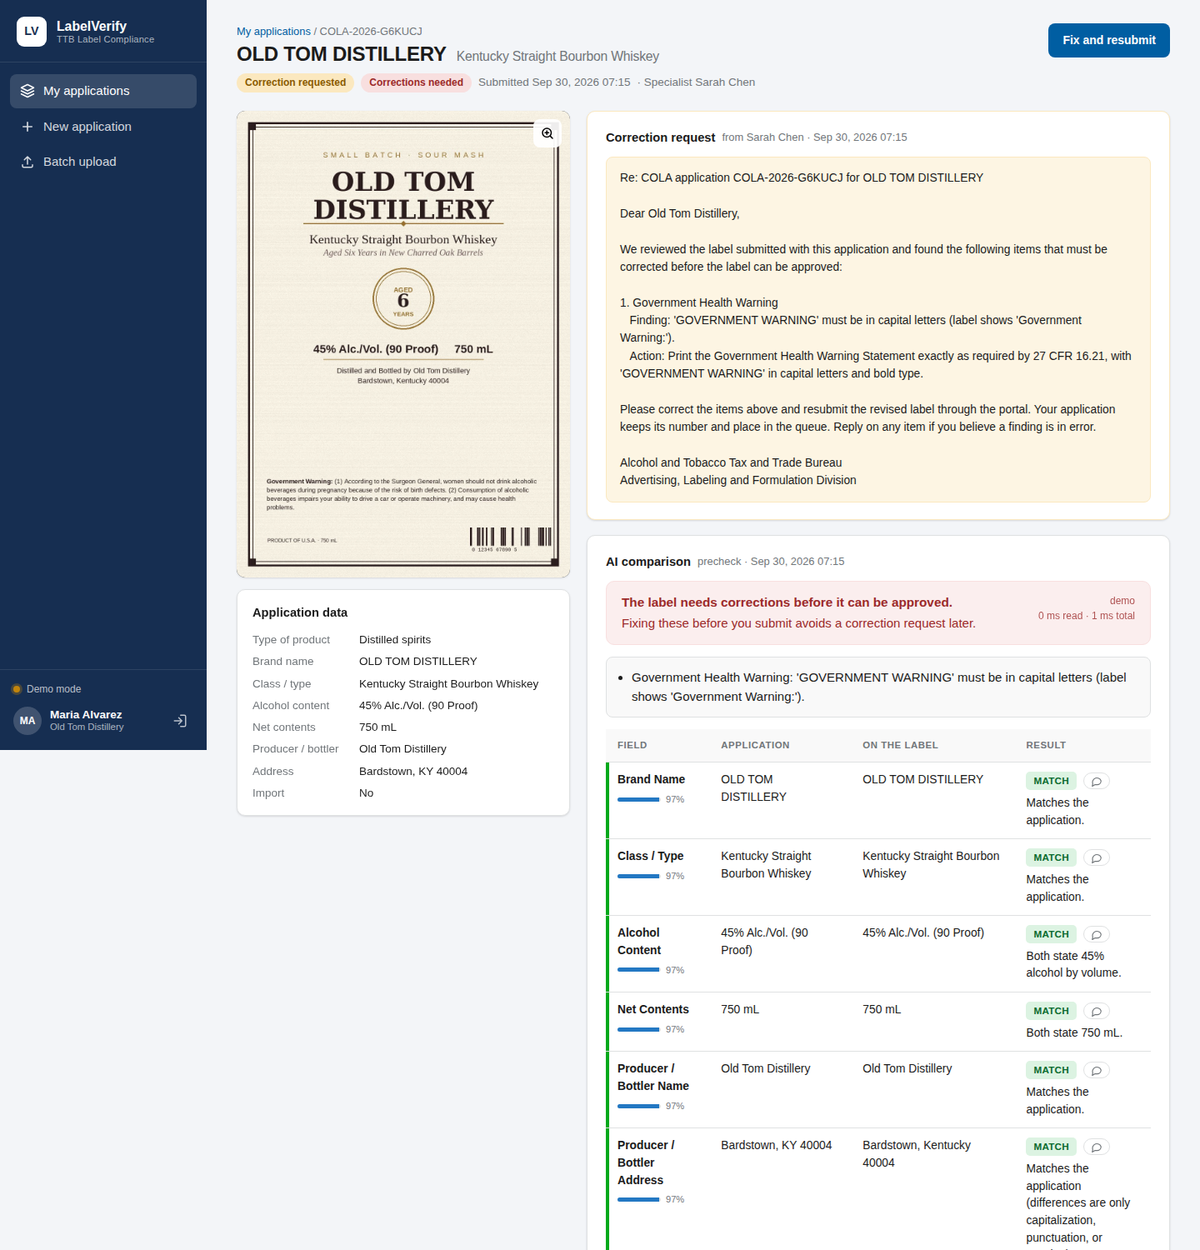
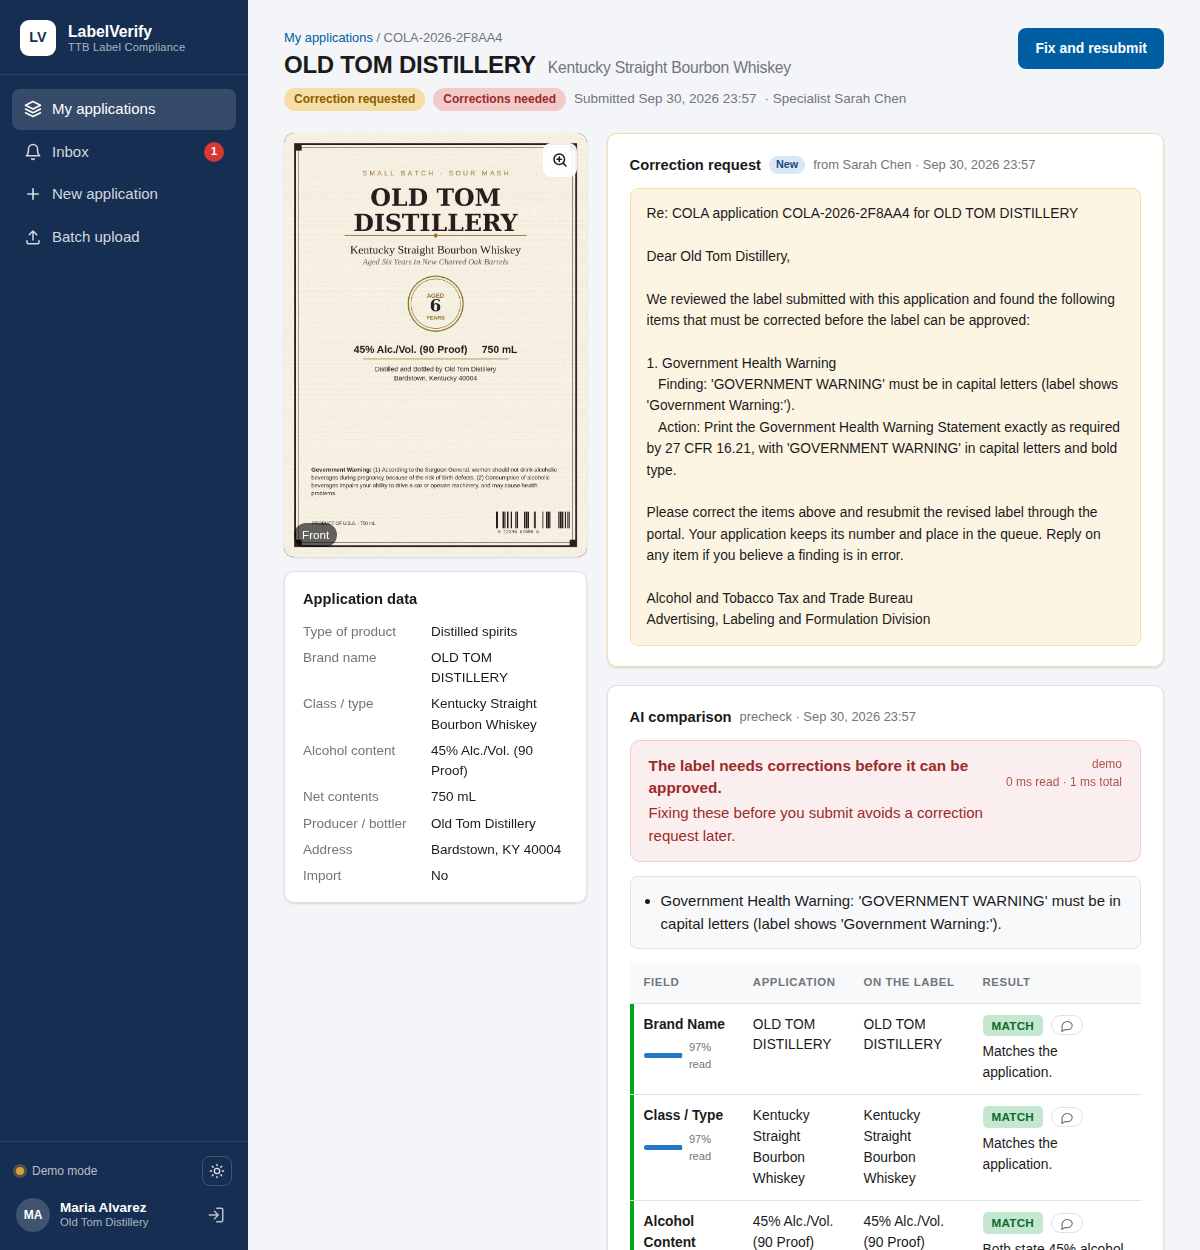
Specialist sidebar down to Review queue and Inbox; fifth card is Decided today and links to the tab
Claude-Session: https://claude.ai/code/session_01UaFdaeUbNmkensaSb3BZLg

Changed region(s): [[0.0, 0.0, 0.9867, 1.0], [0.8325, 0.0, 0.9867, 0.0624], [0.0308, 0.1872, 0.1233, 0.2184]]

diff --git a/labelverify/web/templates/layout.html b/labelverify/web/templates/layout.html
@@ -42,18 +42,12 @@
     </a>
     <nav class="nav">
       {% if user.role == 'specialist' %}
-      <a class="nav-item {% if path == '/specialist' %}active{% endif %}" href="/specialist">
+      <a class="nav-item {% if path == '/specialist' or path.startswith('/specialist/applications') %}active{% endif %}" href="/specialist">
         <svg class="icon"><use href="#i-inbox"></use></svg> Review queue
       </a>
       <a class="nav-item {% if path == '/inbox' %}active{% endif %}" href="/inbox">
         <svg class="icon"><use href="#i-bell"></use></svg> Inbox
         <span class="nav-badge" data-unread-badge title="Inbox items you have not read" {% if not unread_total %}hidden{% endif %}>{{ unread_total or 0 }}</span>
-      </a>
-      <a class="nav-item {% if path.startswith('/specialist/applications') %}active{% endif %}" href="/specialist?tab=review">
-        <svg class="icon"><use href="#i-alert"></use></svg> Needs a look
-      </a>
-      <a class="nav-item" href="/specialist?tab=decided">
-        <svg class="icon"><use href="#i-check"></use></svg> Decided
       </a>
       {% else %}
       <a class="nav-item {% if path == '/applicant' or path.startswith('/applicant/applications/') and not path.endswith('/new') %}active{% endif %}" href="/applicant">

diff --git a/labelverify/web/templates/specialist/queue.html b/labelverify/web/templates/specialist/queue.html
@@ -14,7 +14,7 @@
   {{ m.stat('Ready to approve', stats.ready, 'success', '/specialist?tab=ready', tab == 'ready') }}
   {{ m.stat('Needs a look', stats.review, 'warning', '/specialist?tab=review', tab == 'review') }}
   {{ m.stat('Awaiting applicant', stats.corrections, 'neutral', '/specialist?tab=corrections', tab == 'corrections') }}
-  {{ m.stat('Approved today', stats.approved_today, 'success') }}
+  {{ m.stat('Decided today', stats.decided_today, 'success', '/specialist?tab=decided', tab == 'decided') }}
 </div>
 
 <div class="card card-flush">

diff --git a/labelverify/web/services.py b/labelverify/web/services.py
@@ -32,6 +32,7 @@ from ..engine.notices import NoticeDraft, draft_notice, flagged_fields
 from ..engine.preprocess import UnreadableImageError, prepare_image
 from ..engine.verify import run_verification
 from .models import (
+    DECIDED_STATUSES,
     ActivityRead,
     Application,
     ApplicationStatus,
@@ -809,7 +810,7 @@ class QueueStats:
     ready: int
     review: int
     corrections: int
-    approved_today: int
+    decided_today: int
 
 
 QUEUE_TABS = {
@@ -905,8 +906,9 @@ def queue_stats(db: Session) -> QueueStats:
             Application.recommendation != Recommendation.APPROVE.value,
         ),
         corrections=count(Application.status == ApplicationStatus.CORRECTION_REQUESTED.value),
-        approved_today=count(
-            Application.status == ApplicationStatus.APPROVED.value, Application.decided_at >= today
+        decided_today=count(
+            Application.status.in_([s.value for s in DECIDED_STATUSES]),
+            Application.decided_at >= today,
         ),
     )
 
